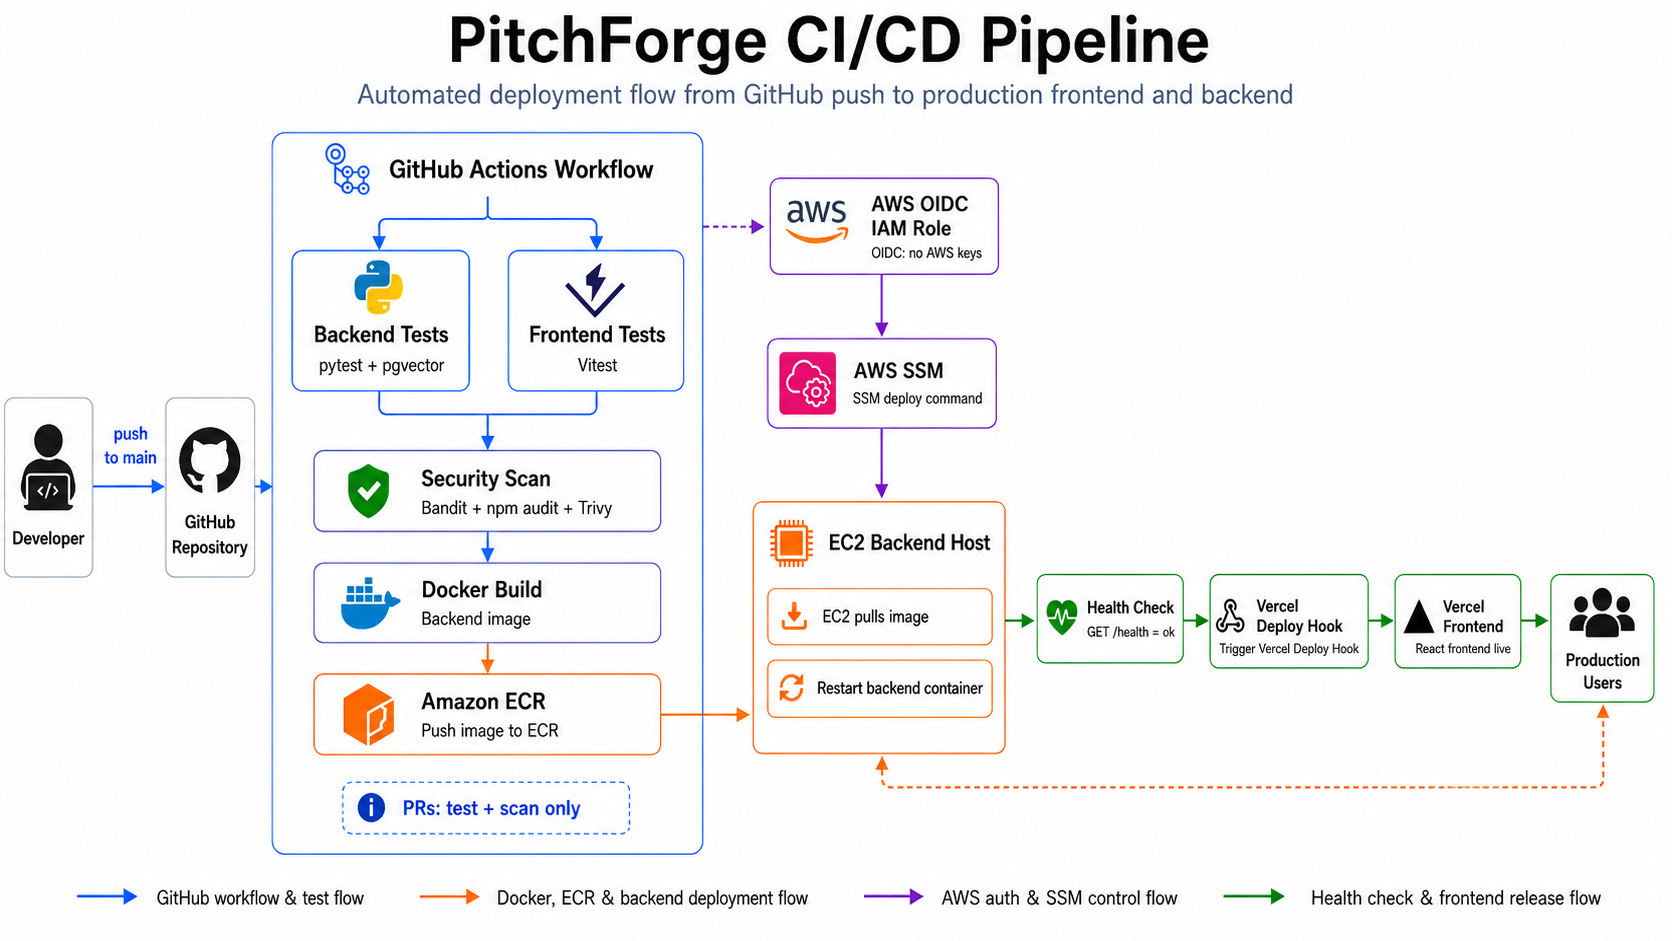
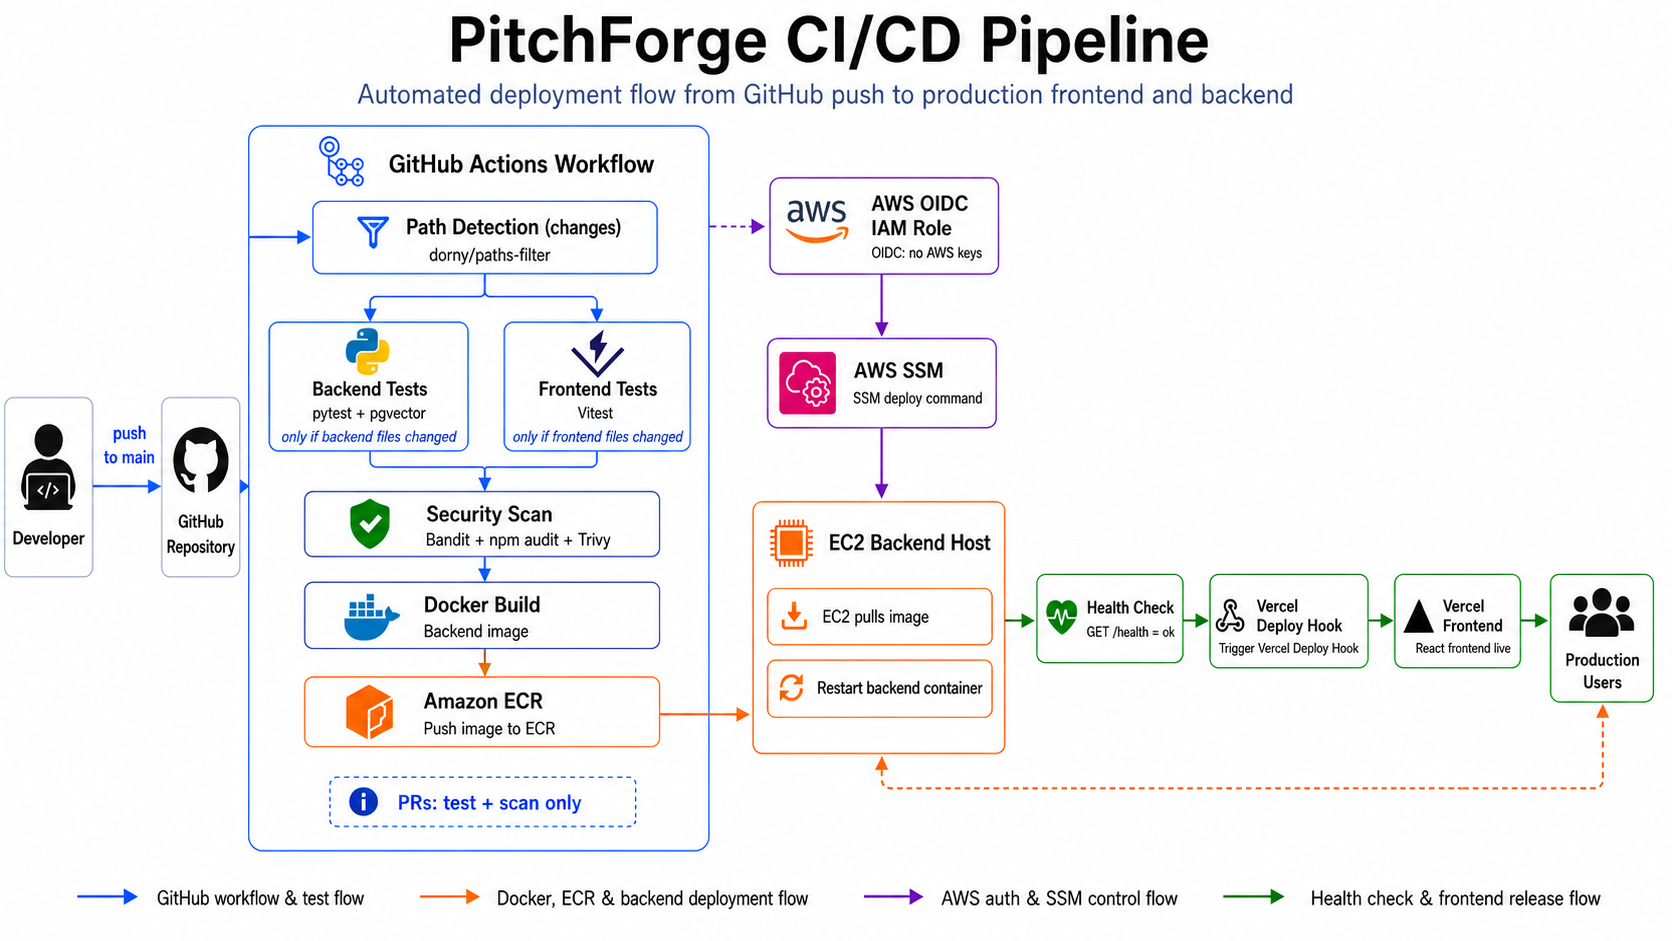
fix: usage limit loop, deleting proposal from history was affecting the usage limit.

diff --git a/backend/app/routers/proposals.py b/backend/app/routers/proposals.py
@@ -9,7 +9,7 @@ from sqlalchemy.ext.asyncio import AsyncSession
 from app.database import get_db
 from app.deps import get_current_user
 from app.limiter import limiter
-from app.models import Proposal, User
+from app.models import Proposal, UsageEvent, User
 from app.schemas import (
     FinalizeRequest,
     GenerateRequest,
@@ -53,9 +53,10 @@ async def get_usage(
 ):
     today_start = datetime.combine(date.today(), datetime.min.time()).replace(tzinfo=timezone.utc)
     count = await db.scalar(
-        select(func.count(Proposal.id)).where(
-            Proposal.user_id == current_user.id,
-            Proposal.created_at >= today_start,
+        select(func.count(UsageEvent.id)).where(
+            UsageEvent.user_id == current_user.id,
+            UsageEvent.phase == "analysis",
+            UsageEvent.created_at >= today_start,
         )
     )
     return UsageResponse(used=count or 0, limit=7)
@@ -101,9 +102,10 @@ async def analyze(
 ):
     today_start = datetime.combine(date.today(), datetime.min.time()).replace(tzinfo=timezone.utc)
     count = await db.scalar(
-        select(func.count(Proposal.id)).where(
-            Proposal.user_id == current_user.id,
-            Proposal.created_at >= today_start,
+        select(func.count(UsageEvent.id)).where(
+            UsageEvent.user_id == current_user.id,
+            UsageEvent.phase == "analysis",
+            UsageEvent.created_at >= today_start,
         )
     )
     if count >= 7:

diff --git a/CLAUDE.md b/CLAUDE.md
@@ -115,7 +115,7 @@ class PitchforgeState(TypedDict):
 - Gemini 503 retry — `.with_retry(retry_if_exception_type=(ServerError,), stop_after_attempt=3, wait_exponential_jitter=True)` on all 5 LLM instances (analyzer, scorer, generator, critic, guardrail)
 - Human revision limit — `MAX_HUMAN_REVISIONS = 2`; `revision_count` column on `Proposal` (Alembic migration `6a1b277087aa`); enforced via atomic `UPDATE ... WHERE revision_count < MAX RETURNING id` in `/revise` router (race-condition-proof — concurrent requests can't both slip through); HTTP 429 if at limit; frontend disables "Request Revision" button at limit with `(2/2)` counter; revision errors restore proposal text inline instead of full error screen
 - Verifying node in AnalyzePipeline — `status` SSE event activates it; transitions to done on first `node_start`
-- Rate limiting (`slowapi`) — `/analyze`: 7/day per user (DB count) + 14/day per IP; `/auth/google`: 10/hour per IP; `POST /api/profile`: 8/day IP + 4/day per-user; `POST /api/profile/parse-resume`: 4/day IP + 2/day per-user; `app/limiter.py` holds the shared `Limiter` instance
+- Rate limiting (`slowapi`) — `/analyze`: 7/day per user (count of `usage_events WHERE phase='analysis'` — decoupled from proposal deletes, survives restarts) + 14/day per IP; `/auth/google`: 10/hour per IP; `POST /api/profile`: 8/day IP + 4/day per-user; `POST /api/profile/parse-resume`: 4/day IP + 2/day per-user; `app/limiter.py` holds the shared `Limiter` instance
 - Rate limiting IP fix — CDN/proxy-aware key function in `app/limiter.py`; checks `CF-Connecting-IP` → `X-Real-IP` (nginx) → `X-Forwarded-For` → `request.client.host`; nginx must set `proxy_set_header X-Real-IP $remote_addr`
 - Per-user rate limiting key — `_get_user_id()` in `app/limiter.py`; decodes JWT Bearer token via `verify_token()`, returns `"user:{sub}"`; falls back to IP if token missing/invalid; used as `key_func` on profile endpoint `@limiter.limit` decorators
 - Per-user profile system:
@@ -152,7 +152,7 @@ class PitchforgeState(TypedDict):
 - Full manual AWS deployment complete — backend live at `https://api.pitchforge.cloud`, frontend live at `https://www.pitchforge.cloud`
 - CloudWatch observability — Docker `awslogs` driver routes container stdout to `/pitchforge/backend` log group; structured JSON logs (structlog, `LOG_FORMAT=json`) queryable via Log Insights; custom dashboard: CPU gauge, NetworkIn/Out gauges, CPU over time (line), Network I/O (line), error trend (bar), pipeline activity (table); `CloudWatchLogsFullAccess` attached to EC2 IAM role; no metric filters — admin panel covers business metrics, CloudWatch covers infrastructure + runtime layer
 - CloudWatch alarms — SNS topic `pitchforge-alerts` (ap-south-1) + `pitchforge-billing-alerts` (us-east-1) both subscribed to `hassanabdullahhere01@gmail.com`; 6 alarms: EC2 CPU > 80% (5 min), EC2 StatusCheckFailed >= 1, RDS CPU > 80% (5 min), RDS FreeStorageSpace < 1 GB, RDS FreeableMemory < 100 MB (threshold lowered from 256 MB — db.t4g.micro uses ~850 MB normally due to shared_buffers + pgvector caching), Billing EstimatedCharges > $30/month (us-east-1)
-- GitHub Actions CI/CD — `.github/workflows/ci-cd.yml`; 5 jobs: `test-backend` (pytest + real pgvector/pgvector:pg16 service container + uv cache) + `test-frontend` (vitest + npm cache) run in parallel → `security-scan` (Bandit SAST, npm audit, Trivy filesystem CVE scan — hard fail on HIGH/CRITICAL only) → `deploy-backend` (OIDC auth → ECR push → SSM send-command to EC2: stop old container, pull new image, run `~/run-backend.sh`) → `deploy-frontend` (poll `/health` every 10s up to 5 min → `vercel deploy --prod` via Vercel CLI); deploy jobs gated to `main` push only via `if:` condition; `paths-ignore: ['**.md', 'docs/**']` skips pipeline on doc-only pushes; Vercel auto-deploy disabled via `exit 0` Ignored Build Step — deploy hook approach abandoned because Ignored Build Step also canceled hook-triggered builds; Vercel CLI bypasses it entirely
+- GitHub Actions CI/CD — `.github/workflows/ci-cd.yml`; 6 jobs with path-based skipping: `changes` (always runs first — uses `dorny/paths-filter@v3` to emit `backend` bool for `backend/**`, `pitchforge/**`, `Dockerfile`, `.dockerignore` changes, and `frontend` bool for `frontend/**` changes) → `test-backend` (only when `backend == 'true'` — pgvector/pgvector:pg16 service container + uv cache + pytest) + `test-frontend` (only when `frontend == 'true'` — npm cache + Vitest, runs in parallel with test-backend) → `security-scan` (uses `always()` so skipped test jobs don't block it; passes if both test jobs succeeded or were skipped; skips entirely if neither side changed; Bandit SAST, npm audit, Trivy CVE scan — hard fail on HIGH/CRITICAL only) → `deploy-backend` (only when `backend == 'true'` AND `security-scan` passed AND main push — OIDC auth → ECR push with `previous` tag saved for instant rollback → SSM send-command to EC2: ECR login + pull latest + stop+rm old container + `~/run-backend.sh`) → `deploy-frontend` (only when `frontend == 'true'` AND `deploy-backend` succeeded or was skipped AND main push — health poll every 10s up to 5 min only when backend was also deployed this run, then `vercel deploy --prod` via Vercel CLI); deploy jobs gated to `main` push via `github.ref` + `github.event_name`; `paths-ignore: ['**.md', 'docs/**']` skips entire pipeline on doc-only pushes; Vercel auto-deploy disabled via `exit 0` Ignored Build Step — deploy hook approach abandoned because Ignored Build Step also canceled hook-triggered builds; Vercel CLI bypasses it entirely
 - SPA routing fix — `frontend/vercel.json` with catch-all rewrite `/(.*) → /index.html`; hard refresh or direct URL on any React Router route (e.g. `/profile`, `/proposals/:id`) no longer returns Vercel 404
 
 **Next (in order):**

diff --git a/README.md b/README.md
@@ -546,7 +546,7 @@ PitchForge is live on a cost-conscious AWS setup designed for learning real prod
 | Migrations | Done | `alembic upgrade head` runs at container startup |
 | Tests | Done | 48 backend + 22 frontend tests |
 | Monitoring | Done | CloudWatch logs, metrics dashboard, and 6 alarms (EC2 + RDS + billing) |
-| CI/CD | Done | GitHub Actions: parallel tests → security scan → backend deploy → frontend deploy |
+| CI/CD | Done | GitHub Actions: path-filtered changes detection → parallel tests (backend/frontend only when relevant files changed) → security scan → backend deploy → frontend deploy |
 | Infrastructure as Code | Next | Terraform for VPC, EC2, RDS, ECR, IAM, and Secrets Manager references |
 | Scaling path | Later | ALB, private backend service, ECS/Fargate or autoscaled EC2, Multi-AZ RDS |
 
@@ -558,21 +558,22 @@ Current production posture: suitable for a controlled soft launch with a fully a
 
 ### CI/CD — GitHub Actions
 
-**`.github/workflows/ci-cd.yml` · triggers on every push and PR to `main` (doc-only changes skipped via `paths-ignore`)**
+**`.github/workflows/ci-cd.yml` · triggers on every push and PR to `main` (doc-only changes skipped via `paths-ignore`) · path-based skipping: backend and frontend jobs only run when relevant files change**
 
-Every push to `main` runs the full pipeline automatically. Frontend never goes live before the backend is confirmed healthy.
+Every push to `main` runs only the jobs relevant to what changed. Frontend never goes live before the backend is confirmed healthy.
 
 <img src="./docs/cicd-pipeline.png" alt="PitchForge CI/CD pipeline" width="100%"/>
 
 **Jobs:**
 
-| Job | Runs on | What it does |
-|-----|---------|-------------|
-| `test-backend` | Ubuntu VM | Spins up `pgvector/pgvector:pg16` service container · installs deps via `uv sync --frozen --extra test` (cached) · runs all 48 pytest tests against a real DB |
-| `test-frontend` | Ubuntu VM (parallel) | Installs deps via `npm ci` (cached) · runs all 22 Vitest tests |
-| `security-scan` | Ubuntu VM | Bandit (Python SAST) · npm audit · Trivy filesystem CVE scan — Bandit fails on HIGH findings; npm audit and Trivy fail on CRITICAL dependency/CVE findings |
-| `deploy-backend` | Ubuntu VM | Authenticates with AWS via OIDC (no stored keys) · builds Docker image · pushes to ECR · sends SSM command to EC2 to stop old container, pull new image, and restart |
-| `deploy-frontend` | Ubuntu VM | Polls `GET /health` every 10s (up to 5 min) until new backend is serving · deploys via Vercel CLI (`vercel deploy --prod`) |
+| Job | Condition | What it does |
+|-----|-----------|-------------|
+| `changes` | Always | Uses `dorny/paths-filter@v3` to detect which directories changed. Outputs `backend` bool (`backend/**`, `pitchforge/**`, `Dockerfile`, `.dockerignore`) and `frontend` bool (`frontend/**`). Every downstream job reads these to decide whether to run or skip. |
+| `test-backend` | `backend == true` | Spins up `pgvector/pgvector:pg16` service container · installs deps via `uv sync --frozen --extra test` (cached) · runs all 48 pytest tests against a real DB |
+| `test-frontend` | `frontend == true` | Installs deps via `npm ci` (cached) · runs all 22 Vitest tests · runs in parallel with `test-backend` |
+| `security-scan` | Either side changed; both tests passed or skipped | Uses `always()` so a skipped test job doesn't block it — but bails if a test job actually failed. Bandit (Python SAST) · npm audit · Trivy filesystem CVE scan — Bandit fails on HIGH; npm audit and Trivy fail on CRITICAL. |
+| `deploy-backend` | `backend == true` + `security-scan` passed + main push | Authenticates with AWS via OIDC (no stored keys) · builds Docker image · saves current `latest` as `previous` tag (instant rollback) · pushes new image to ECR · sends SSM command to EC2: ECR login → pull → stop+rm old container → restart via `~/run-backend.sh` |
+| `deploy-frontend` | `frontend == true` + (`deploy-backend` succeeded or skipped) + main push | Polls `GET /health` every 10s up to 5 min — **only** when backend was also deployed this run (skipped otherwise). Deploys via Vercel CLI (`vercel deploy --prod`). |
 
 **Deploy jobs are gated to `main` push only** via `if: github.ref == 'refs/heads/main' && github.event_name == 'push'` — test and security jobs run on PRs too, deploys never do.
 
@@ -674,6 +675,7 @@ RDS is fully managed by AWS and needs no outbound internet access. Skipping the 
 **ap-south-1 · repo: `pitchforge-backend`**
 
 - GitHub Actions builds and pushes the image on every merge to `main` via OIDC authentication — no manual steps, no stored AWS keys
+- Two tags are maintained: `latest` (current production image) and `previous` (the image that was `latest` before this push). The deploy step promotes `latest` → `previous` before overwriting it, so rolling back is a single `docker pull :previous` + restart — no rebuild needed.
 - EC2 pulls the new image via SSM command — the instance profile grants ECR pull permissions
 
 **Decision — OIDC for push, instance profile for pull**  
